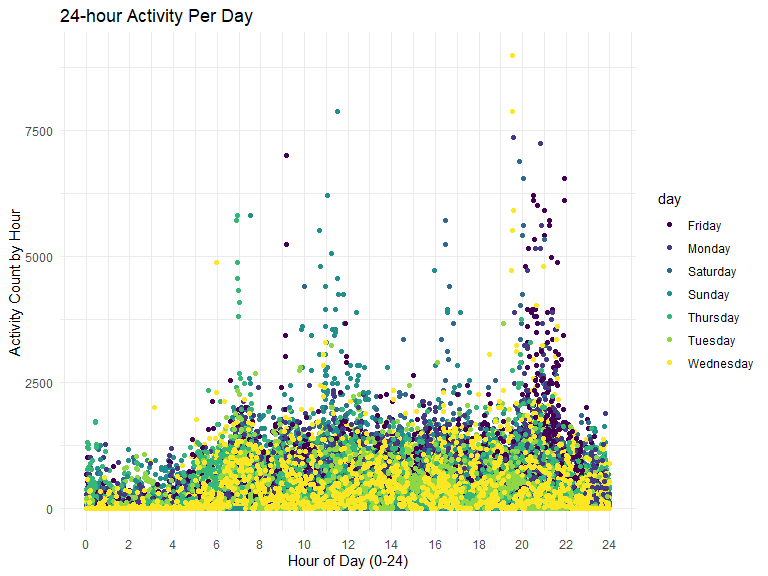
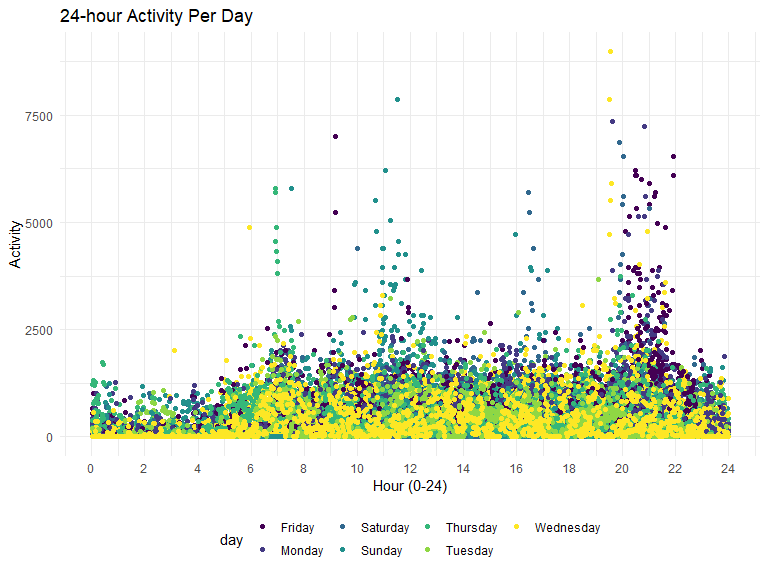
24-hour plot trends & conclusions

diff --git a/p8105_hw3_sr3861.md b/p8105_hw3_sr3861.md
@@ -186,7 +186,7 @@ accel_data %>%
 
 *Table 1: Total Activity Count Per Day*
 
-*TRENDS:* It seems like activity levels are highest during the
+**TRENDS:** It seems like activity levels are highest during the
 middle/end of the week (Wednesday-Friday) with the lowest activity on
 Saturdays.
 
@@ -215,7 +215,7 @@ accel_data %>%
 
 *Table 2: Total Activity Count Per Day Per Week*
 
-*Comment:* It looks like the trend is NOT consistent across all weeks.
+**COMMENT:** It looks like the trend is NOT consistent across all weeks.
 For example, in Week 2, activity levels were highest on Saturday, while
 in Weeks 4 &5, activity levels were actually lowest on Saturday. There
 is quite a bit of variation across both weeks and days.
@@ -226,17 +226,23 @@ is quite a bit of variation across both weeks and days.
 accel_data %>%
   mutate(minute = as.integer(minute))%>%
   group_by(day, minute) %>%
-  ggplot(aes(x = minute, 
-             y = count, 
-             color = day)) + geom_point() + 
+  ggplot(aes(x = minute, y = count, color = day, group = day_id)) + geom_point() + 
   labs(
     title = "24-hour Activity Per Day",
-    x = "Hour of Day (0-24)",
-    y = "Activity Count by Hour") + 
+    x = "Hour (0-24)",
+    y = "Activity") + 
   scale_x_continuous(
     breaks = c(0, 120, 240, 360, 480, 600, 720, 840, 960, 1080, 1200, 1320, 1440),
-    labels = c("0", "2", "4", "6", "8", "10", "12", "14", "16", "18", "20", "22", "24")) +
-    theme(legend.position = "right")
+    labels = c("0", "2", "4", "6", "8", "10", "12", "14", "16", "18", "20", "22", "24"))
 ```
 
 <img src="p8105_hw3_sr3861_files/figure-gfm/24 hour plot-1.png" width="90%" />
+**PATTERNS & CONCLUSIONS:** It is clear that across all days, activity
+levels are lowest between hours 0-6 and 22-24. This makes sense as this
+is probably when the subjects are asleep. There seems to be some peaks
+in activity around hours 20-22, mostly on Fridays, with the highest
+activity levels seen for Wednesdays. There are some other sporadic
+jumps, such as at hour 7 on Thursdays, which may hint at some weekly
+activity at this time. Similarly there are some high activity levels
+around hour 11 on Sundays. This graph is a good visual tool to see the
+activity trend over the course of each day.
